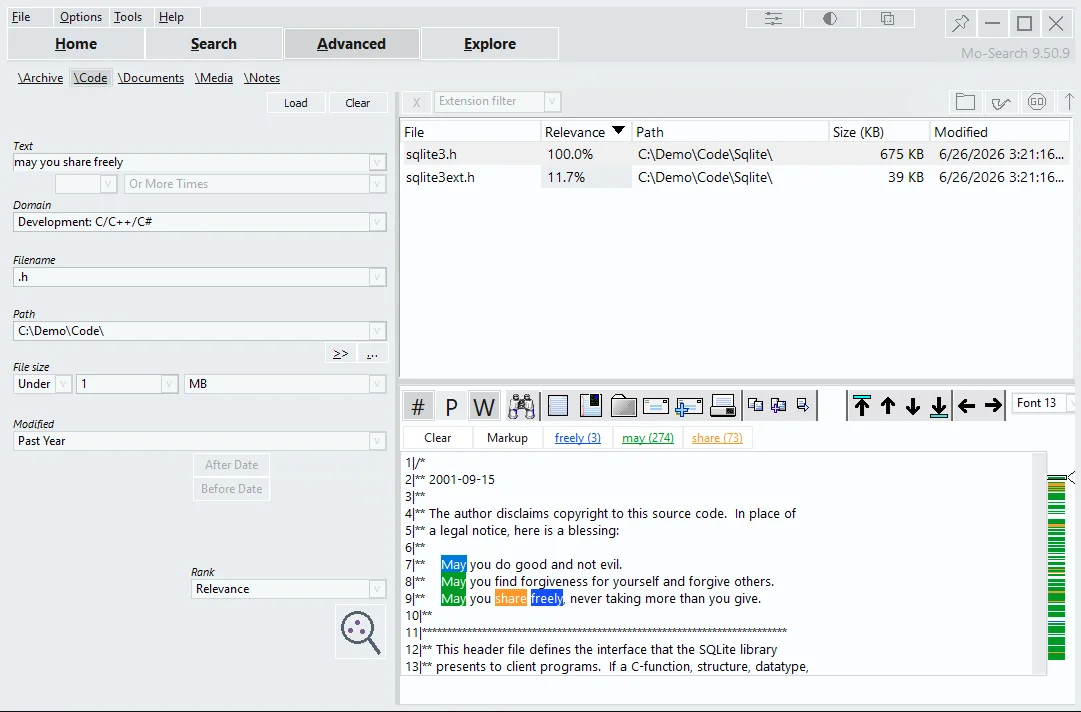
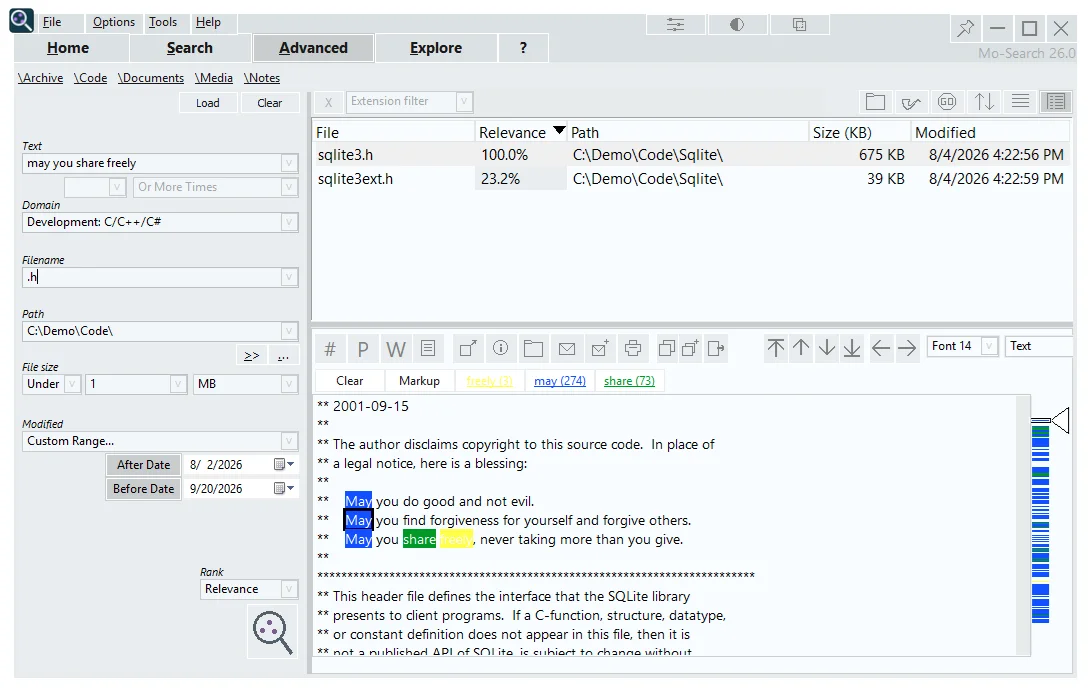
Publish Meauxsoft/mo-search documentation (Mo-Search 26.0)

Changed region(s): [[0.0, 0.0, 1.0, 1.0], [0.7327, 0.1214, 1.0, 0.2731]]

diff --git a/CHANGELOG.md b/CHANGELOG.md
@@ -1,8 +1,23 @@
-# Mo-Search release history
+# Mo-Search release history
 
-Mo-Search has been in continuous development since 2005. This changelog documents released versions through **9.50.8**; work in progress for a future release is not listed here.
+Mo-Search has been in continuous development since 2005. This changelog documents released versions through **26.0**; work in progress for a future release is not listed here.
 
 Generated from the Meauxsoft release history by `build-changelog.ps1`. Do not edit by hand.
+
+## 26.0 — 2026, Sep 21
+
+_A 40-day trial, a $50 license, and MoContext on this PC_
+
+- Version: Public version is 26.0 (calendar year.release). Later 26.x and 27.0 update in place on the same install folders and exe name. 9.50 remains a separate installed product.
+- Trial: 40-day trial of the full product, not a reduced build.
+- License: $50 buys a 365-day license. Paddle emails an MS1. key to the buyer to paste in the app. Not a subscription.
+- Buy: In-app and website Buy paths open Buy_MoSearch.html. 9.x donate / MOS9V codes do not license 26.0.
+- MoContext: Ships with Mo-Search as the local MCP server. Compatible AI clients search and read from the Mo-Search index on this PC; nothing is uploaded.
+- MoContext: Settings backup/restore, daily auto-backup, and a first-run choice to Restore or Start fresh. Default backup folder is Documents\MoBackups.
+- Updates: AppUpdater downloads the installer over HTTPS and requires a valid Authenticode signature before apply.
+- Search Home: Search Home, Simple Search counts, and Buy chrome share one layout so the combo, brand, and history cannot drift.
+- Search: Text * ? ^ wildcards work in the search box without hanging the results list.
+- MoVault: Private vault on this PC is coming soon. It is not included as a download with Mo-Search 26.0.
 
 ## 9.50.8 — 2026, Jul 17
 
@@ -190,57 +205,11 @@ _Rebuilt search engine, 30+ new file types, Python AI interface_
 - Installer: Updated to Visual Studio 2026 v145 toolset and Windows SDK 10.0.26100.0.
 - UX: Various UI fixes and improvements.
 
-## 9.49.24 — 2026, Jan 19
-
-- Indexer: Enable indexing larger files corpus (Added threshold-based Ram compression to continue past previous memory exhaustion).
-- Indexer: Optimized with further memory reductions (including switch to 1-way efficient Word hash map, from unnecessary ~900-way).
-- Indexer: Adjusted SQLite temp_store from MEMORY to DEFAULT (corruption root cause).
-- Indexer: Adjusted SQLite to always use WAL journaling mode (corruption root cause).
-- Indexer: Adjusted SQLite synchronous from FULL to NORMAL (improves speed).
-- Indexer: Allocated more RAM for SQLite page cache, to reduce cache misses.
-- Indexer: Fixed long-standing occasional issue of files not being fully indexed (plus reams of log noise - m_miiWordID_Correction).
-- Indexer: Fixed long-standing rare issue with stability, due to lack of proper synchronization around two core hash maps (CMapIntToStrC, XMapStrToInt).
-- Indexer: Improved logging of memory usage (GetSqliteMemUsage, HAVE_MALLOC_USABLE_SIZE).
-- Indexer: Improved log details on memory usage (LogSqliteMemoryUsage).
-- Indexer: Improved diagnostics when exceptions occur (try/catch around more code, preceding steps within stack).
-- FileViewer: Improvements to XmlMinify viewer, to better handle malformed XML (plus similar improvements for html and xml).
-- FileViewer: Fixed long-standing issues around search within, match highlighting, and match counting when switching between files.
-- FileViewer: Some optimizations around switching files, to reduce reloading/disposing/constructing needless UI objects.
-- Config: In Paths dialog, when adding an Include/Exclude... the browse for path dialog no longer uses confusing path color coding (red/white/gray).
-- Etc: Various small optimization, code cleanup, and improvements based on static code analysis.
-- ResultsList: In both Explore and Search modes, fixed weirdness/incompleteness when the user deletes files within the results list.
-- Indexer: Other optimizations targeted for indexing speed and memory usage.
-- Update VS to 2026 version 18.1.1 (and PlatformToolset from v143 to v145)
-- Indexer: Added new UriHistory table, to track per-file indexing history (handy for 3rd party / AI utilization)
-- Installer: Removed annoying page for desktop shortcut creation, and annoying prompt "...already installed" when updating Mo-Search.
-- Installer: Do a better showing the Index config dialog after install/update, frontAndCenter
-- Indexer: Exclude omit folder "System Volume Information"
-- Indexer: Add four more indexer threads for multi-core speed improvements (from 7 to 11)
-- Indexer: IndexTime is corrected to UTC (As done with ModifiedTime and CreatedTime)
-- Indexer: Optimized SetMinMax to Simple bitset - zero hash overhead map saving CPU and RAM.
-- Indexer: Fixed long-standing bug/crash in CTextFileRead::GuessCharacterCount()
-- Indexer: By default also index .md files (markdown)
-- AI: Added local-first Agentic AI LLM interface via MoContext HTTP server.
-- UX: Explore tree/advanced is wider by default.
-- UX: MComboBox: Ctrl-z restores user's pre-edit text (undo).
-- UX: BrowseFolder does a better job checking user's selected path (during OK validation).
-- UX: Right-click Results files > "Selected File" to copy path+File (new option)
-- UX: Right-click Results files > "Export Text" also includes the path when not visible in the list (improved option)
-- UX: Added Results files > Indexed Date (diag column)/ Created Date/
-- UX: Setup, paste path for new Include path, press return... path was not added (bug fix)
-- UX: results list, select items (control-a) was not working (bug fix)
-- UX: results list, delete selected (530 selected), says "delete all 2 items"(bug fix).
-- UX: Options > Add path > OK... Go ahead and index that new path (Upon add/modify multiple paths/extensions... then index all at once)/
-- UX: AutoIndexer: Add minimize button.
-- UX: FolderSize: Add maximize button.
-- bug: CFileHelper::IsDirectory now returns false when given an invalid path (before it returned true, which is wrong)
-- bug: CFileHelper::RemovePath now returns false when the path is empty
-- uplift sqlite to 3.51.2
-
 ## Earlier releases
 
 | Version | Date | Release |
 |---|---|---|
+| 9.49.24 | 2026, Jan 19 | 44 changes |
 | 9.49.13 | 2025, Dec 31 | 49 changes |
 | 9.49.10 | 2025, Nov 11 | 7 changes |
 | 9.49.9 | 2025, Oct 20 | 2 changes |

diff --git a/README.md b/README.md
@@ -1,6 +1,6 @@
 # Mo-Search
 
-> Documentation baseline: Mo-Search 9.50.8, the current public release.
+> Documentation baseline: Mo-Search 26.0, the current public release.
 
 **Full-text desktop search for Windows — your whole machine, indexed locally,
 ranked in milliseconds.**
@@ -16,9 +16,9 @@ It has been in continuous development since 2005.
 </picture>
 
 <picture>
-  <source media="(prefers-color-scheme: dark)" srcset="media/ranked-results.webp">
-  <source media="(prefers-color-scheme: light)" srcset="media/ranked-results-light.webp">
-  <img alt="Ranked Mo-Search results and integrated viewer" src="media/ranked-results.webp">
+  <source media="(prefers-color-scheme: dark)" srcset="media/search-hint-dark.gif">
+  <source media="(prefers-color-scheme: light)" srcset="media/search-hint-light.gif">
+  <img alt="Mo-Search offering a spelling correction, then reusing a saved search" src="media/search-hint-dark.gif">
 </picture>
 
 ## What it does
@@ -89,7 +89,9 @@ license shown by the current installer for the applicable terms.
 ## Download and requirements
 
 Mo-Search supports Windows 10 and 11. Download the current installer from the
-[official Meauxsoft website](https://www.meauxsoft.com).
+[official Meauxsoft website](https://www.meauxsoft.com). Mo-Search 26.0 is $50
+for a 365-day license. MoVault is coming soon and is not a download from this
+repository.
 
 Signed installers are also published here under
 [Releases](https://github.com/Meauxsoft/mo-search/releases), each with a
